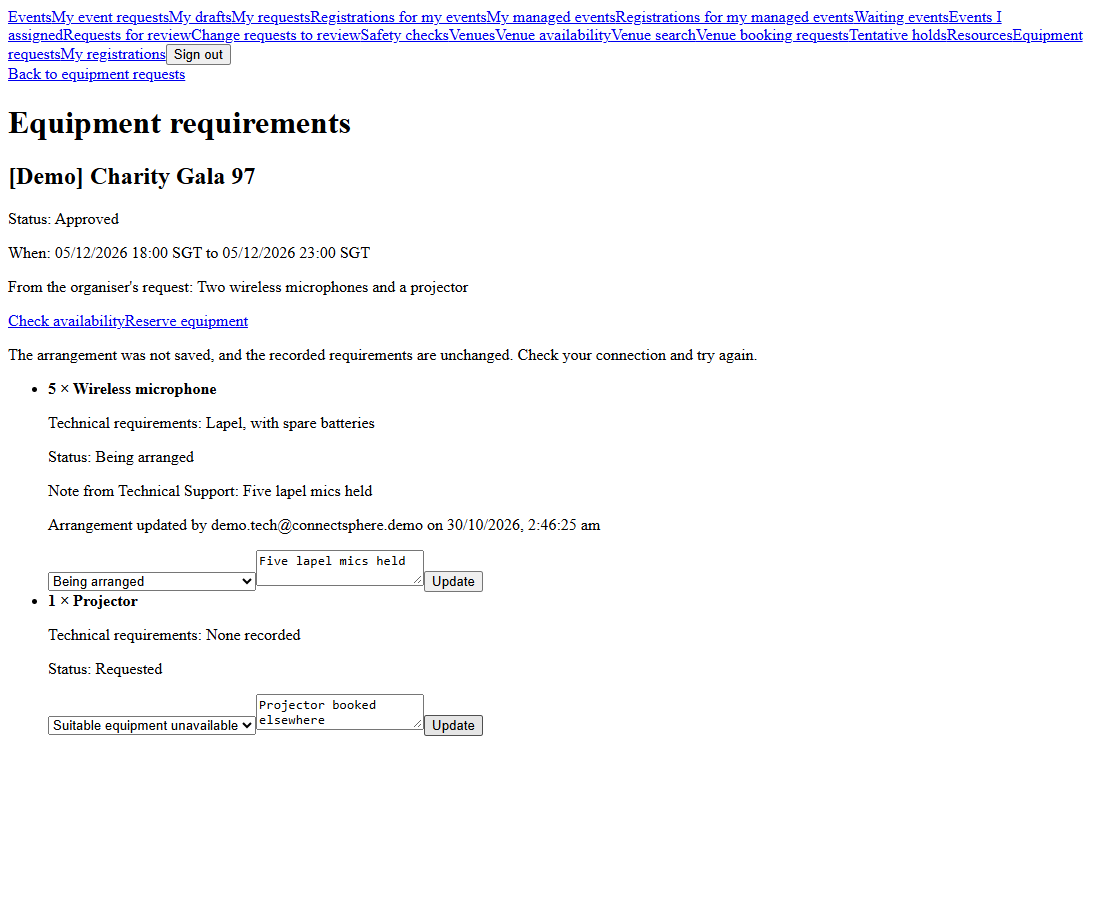
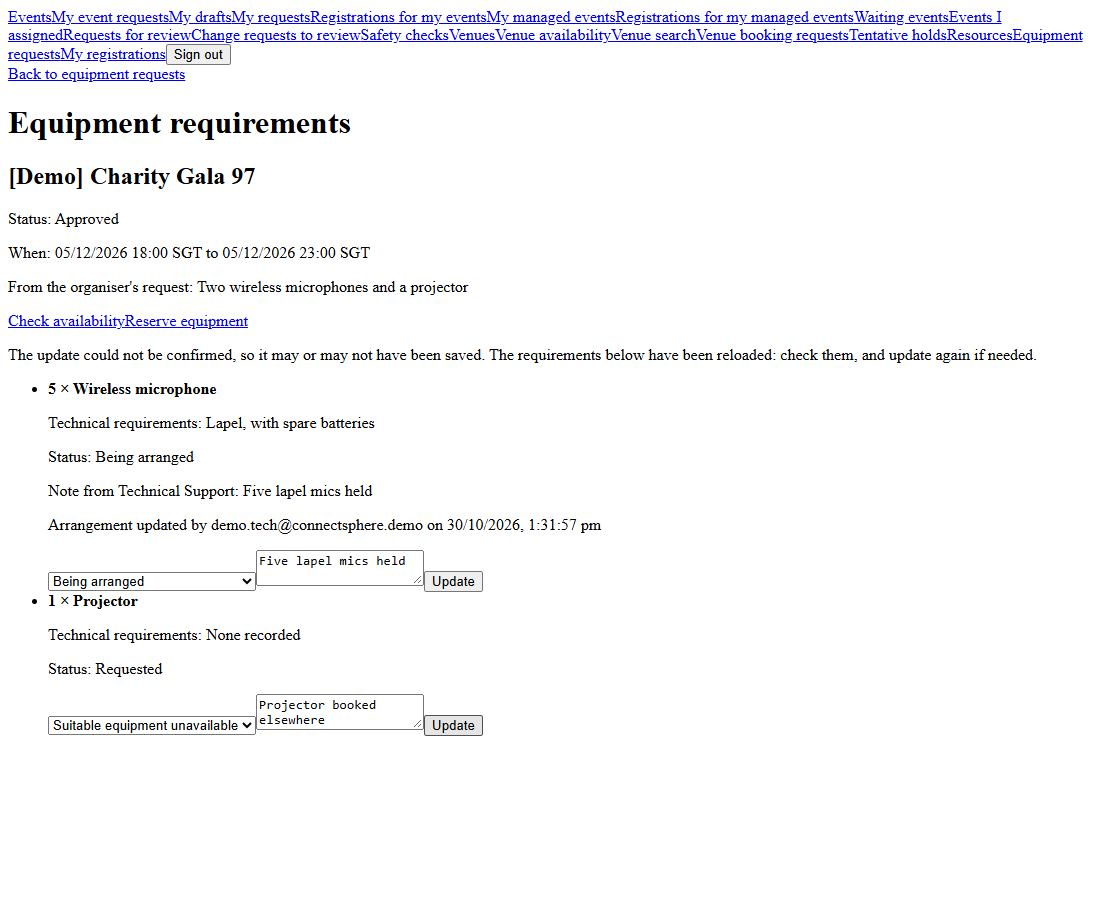
SCRUM-97: Update the DoD evidence for the review fix

Changed region(s): [[0.0309, 0.3733, 0.9273, 0.4044], [0.4945, 0.56, 0.5564, 0.5911]]

diff --git a/docs/evidence/SCRUM-97/scripts/mutations.py b/docs/evidence/SCRUM-97/scripts/mutations.py
@@ -98,7 +98,8 @@ MUTATIONS = [
      PAGE, "const body = { status, note, last_saved_at: requirement.last_saved_at };",
      "const body = { status, note };"),
     ("F5", "frontend", "A refusal for changed details doesn't show the new details", "AC1",
-     PAGE, "      if (error.response?.data?.reload) load();\n", ""),
+     PAGE, "if (answered === null || error.response?.data?.reload) load();",
+     "if (answered === null) load();"),
     # ---------- Frontend: refusals and failures (AC2, AC3) ----------
     ("F6", "frontend", "The requirement looks updated before the server agrees", "AC2, AC3",
      PAGE, "    startChange();\n    try {\n      // With the details shown",
@@ -107,11 +108,21 @@ MUTATIONS = [
      "      ? { ...r, status, status_label: \"Being arranged\", arrangement_note: note } : r)) }));\n"
      "    try {\n      // With the details shown"),
     ("F7", "frontend", "A failed update shows no error", "AC2, AC3",
-     PAGE, "      setFailure(explain(error, ARRANGEMENT_NOT_SAVED));\n", ""),
+     PAGE, "      setFailure(answered ?? ARRANGEMENT_UNCONFIRMED);\n", ""),
     ("F8", "frontend", "The server's explanation is ignored", "AC2, AC3",
-     PAGE, "explain(error, ARRANGEMENT_NOT_SAVED)", "ARRANGEMENT_NOT_SAVED"),
-    ("F9", "frontend", "With no reply, the page doesn't say the requirements are unchanged", "AC3",
-     PAGE, '  "The arrangement was not saved, and the recorded requirements are unchanged. '
-           'Check your connection and try again.";',
-     '  "The arrangement status was not saved. Check your connection and try again.";'),
+     PAGE, "const answered = explain(error, null);", "const answered = null;"),
+    # ---------- Frontend: no reply, so the outcome is unknown (AC3, review of PR #69) ----------
+    ("F9", "frontend", "With no reply, the page says nothing changed (the reviewed bug)", "AC3",
+     PAGE, "setFailure(answered ?? ARRANGEMENT_UNCONFIRMED);",
+     'setFailure(answered ?? "The arrangement was not saved, and the recorded requirements '
+     'are unchanged. Check your connection and try again.");'),
+    ("F10", "frontend", "With no reply, the requirements are not reloaded", "AC3",
+     PAGE, "if (answered === null || error.response?.data?.reload) load();",
+     "if (error.response?.data?.reload) load();"),
+    ("F11", "frontend", "An error page from a proxy is shown as the API's answer", "AC3",
+     PAGE, "const answered = explain(error, null);",
+     "const answered = error.response ? explain(error, \"The update failed.\") : null;"),
+    ("F12", "frontend", "The unconfirmed update is no longer explained when the reload fails", "AC3",
+     PAGE, '        {failure && <p role="alert">{failure}</p>}\n        <p role="alert">{loadError.message}</p>',
+     '        <p role="alert">{loadError.message}</p>'),
 ]

diff --git a/docs/evidence/SCRUM-97-dod-evidence.md b/docs/evidence/SCRUM-97-dod-evidence.md
@@ -7,9 +7,9 @@
 | # | Definition of Done item | Result |
 |---|---|---|
 | 1 | Acceptance criteria satisfied | ✅ All 3 ACs met, each shown by automated tests and in the running app ([§1](#1-acceptance-criteria-satisfied)) |
-| 2 | All test cases pass | ✅ SCRUM-97 backend 13/13 and frontend 6/6; whole backend suite 1177 run, all pass (4 skipped, none of them SCRUM-97's); whole frontend suite 529/529; end-to-end 5/5 ([§2](#2-all-test-cases-pass)) |
-| 3 | Test cases are correct and the code does what it says | ✅ Written test-first (red, then green); 27/27 deliberate breakages caught; behaviour confirmed in a real browser ([§3](#3-test-cases-are-correct-and-the-code-does-what-it-says)) |
-| 4 | Evidence of checks documented | ✅ This document, 6 screenshots, the scripts that produced them and the raw results ([§4](#4-evidence-documented)) |
+| 2 | All test cases pass | ✅ SCRUM-97 backend 13/13 and frontend 8/8; whole backend suite 1177 run, all pass (4 skipped, none of them SCRUM-97's); whole frontend suite 531/531; end-to-end 6/6 ([§2](#2-all-test-cases-pass)) |
+| 3 | Test cases are correct and the code does what it says | ✅ Written test-first (red, then green); 30/30 deliberate breakages caught; behaviour confirmed in a real browser ([§3](#3-test-cases-are-correct-and-the-code-does-what-it-says)) |
+| 4 | Evidence of checks documented | ✅ This document, 7 screenshots, the scripts that produced them and the raw results ([§4](#4-evidence-documented)) |
 
 > **Supabase:** no schema change, so there is nothing to run in the SQL editor. Against Supabase on 30 Oct 2026, `python -m unittest tests.test_tech_updates_equipment tests.test_tech_views_equipment tests.test_equipment_requirements tests.test_app_factory` ran 62 tests, all passing, including the schema check (the `hold_warned_at` mismatch found in SCRUM-96 is gone now that SCRUM-86 has merged). The other results below come from a local PostgreSQL 17 built by `ci/build_test_database.py`, as CI's `unittest` job builds it, with the tests logged in as the restricted `connectsphere_test` role.
 
@@ -21,6 +21,7 @@ SCRUM-42 (AC4) already let Technical Support set each requirement's arrangement 
 - **An update that changes nothing keeps who and when** (AC1): it used to replace them, so pressing Update again made someone look responsible for an arrangement they hadn't touched. It now says "No changes were made to the arrangement for 2 × Wireless microphone."
 - **An update is for the details Technical Support saw** (AC1, AC2): the page sends the requirement's `last_saved_at`. If the coordinator changed the requirement since (which sends it back to Requested, SCRUM-42 A8), the update is refused with 409 and nothing changes, and the page reloads to show the new details. The row is locked (`SELECT … FOR UPDATE`) while it is checked and saved, as the coordinator's edit already locks it. Before, a note written for 2 microphones could be saved against 5.
 - **A failed save says the requirements are unchanged** (AC3): "The arrangement was not saved, and the recorded requirements are unchanged. Please try again." (was "The arrangement status was not saved. Please try again.").
+- **No reply means the outcome is unknown** (AC3, review of PR #69): only the API's own error reply confirms that nothing was saved. With a dropped connection, or a proxy's error page, the server may have committed the update before the reply was lost. The page now says "The update could not be confirmed, so it may or may not have been saved. The requirements below have been reloaded: check them, and update again if needed." and reloads, so it shows what is actually saved. Before, it said nothing had changed, which could be false.
 - **Drafts:** updating a draft's requirement is now "Event not found." (404), as viewing is since SCRUM-96. Before, Technical Support could update one (a draft can only have a requirement if it is inserted directly) and the reply included the draft's title and the organiser's note.
 
 Code: `update_equipment_arrangement` in `backend/app/events/routes.py` and `EquipmentRequirementsPage.jsx`. SCRUM-42's test-case document (A7) and test docstring note the change; its TC-42-35 page test now expects `last_saved_at` in the update.
@@ -31,7 +32,7 @@ Code: `update_equipment_arrangement` in `backend/app/events/routes.py` and `Equi
 |----|-----------|---------------|-----------------|-------------------------|
 | AC1 | I can update a requirement as arrangements are made, and the update is saved with who and when. | Technical Support set the status (Requested, Being arranged, Suitable equipment unavailable) and a note. The update is saved with who made it and when (UTC), replacing the last, and the page shows both. An update that changes nothing keeps the earlier who and when. An update for details the coordinator has since changed is refused, and the page shows the new details. The coordinator's details can't be changed this way. | TC-97-01 to 06, 14, 15, 19 · TC-42-21, 22, 35 | E2E-01, 02, 04 · [01](SCRUM-97/01-update-saved-with-who-and-when.png), [02](SCRUM-97/02-unchanged-update-keeps-who-and-when.png), [04](SCRUM-97/04-changed-details-refused.png) |
 | AC2 | Only Technical Support Staff can update. Anyone else is denied and nothing changes. | Everyone else, including the event's own coordinator, gets 403 "Only Technical Support Staff can update equipment arrangements." with no event or requirement details. The role is read from the database on every request. A refusal changes no requirement, the event or its notifications, and sends no email. A draft is "Event not found." for everyone. | TC-97-05 to 10, 16 · TC-42-23 | E2E-03 · [03](SCRUM-97/03-coordinator-sees-but-cannot-update.png) |
-| AC3 | If saving fails, the existing requirements are unchanged and an error is shown. | A failed read or save is 503 `retryable: true`, "The arrangement was not saved, and the recorded requirements are unchanged. Please try again.", never "not found", and every requirement stays as it was. The page shows that (or "…Check your connection and try again." with no reply), keeps the requirements as they were and what was chosen and typed, so Update tries again. | TC-97-11 to 13, 17, 18 · TC-42-28 | E2E-05 · [05](SCRUM-97/05-save-failed.png), [06](SCRUM-97/06-saved-on-trying-again.png) |
+| AC3 | If saving fails, the existing requirements are unchanged and an error is shown. | A failed read or save is 503 `retryable: true`, "The arrangement was not saved, and the recorded requirements are unchanged. Please try again.", never "not found", and every requirement stays as it was. The page shows that, keeps the requirements as they were and what was chosen and typed, so Update tries again. With no reply from the API the outcome is unknown, so the page says the update couldn't be confirmed and reloads the requirements to show what is saved, never claiming nothing changed. | TC-97-11 to 13, 17, 18, 20, 21 · TC-42-28 | E2E-05, 06 · [05](SCRUM-97/05-save-failed.png), [06](SCRUM-97/06-saved-on-trying-again.png), [07](SCRUM-97/07-reply-lost-after-saving.png) |
 
 **Working assumptions.** Each is tied to an open question in the test-case document; none has been agreed with the customer:
 
@@ -47,9 +48,9 @@ Code: `update_equipment_arrangement` in `backend/app/events/routes.py` and `Equi
 | Backend, SCRUM-97 | `python -m unittest tests.test_tech_updates_equipment` (from `backend/`) | **13/13 pass** (TC-97-01 to 13) |
 | Backend, the equipment stories | `python -m unittest tests.test_tech_updates_equipment tests.test_tech_views_equipment tests.test_equipment_requirements tests.test_equipment_availability tests.test_equipment_reservation` | **113/113 pass** |
 | Backend, whole suite | `python -m unittest discover` | **Ran 1177 tests: OK, 4 skipped** (on the green commit). The skips are SCRUM-36/37 tests waiting on customer answers and a SCRUM-91 test blocked by SCRUM-93. |
-| Frontend, SCRUM-97 | `npx vitest run src/pages/EquipmentRequirementsPage.test.jsx` (from `frontend/`) | **6/6 SCRUM-97 tests pass** (TC-97-14 to 19), plus SCRUM-42/43/44/96's 29 in the same file: 35/35 |
-| Frontend, whole suite | `npm test` | **529/529 pass** |
-| End-to-end in a real browser | [scripts/e2e_check.mjs](SCRUM-97/scripts/e2e_check.mjs) | **5/5 pass** (§3c), [raw result](SCRUM-97/e2e-results.txt) |
+| Frontend, SCRUM-97 | `npx vitest run src/pages/EquipmentRequirementsPage.test.jsx` (from `frontend/`) | **8/8 SCRUM-97 tests pass** (TC-97-14 to 21), plus SCRUM-42/43/44/96's 29 in the same file: 37/37 |
+| Frontend, whole suite | `npm test` | **531/531 pass** |
+| End-to-end in a real browser | [scripts/e2e_check.mjs](SCRUM-97/scripts/e2e_check.mjs) | **6/6 pass** (§3c), [raw result](SCRUM-97/e2e-results.txt) |
 
 ## 3. Test cases are correct and the code does what it says
 
@@ -62,12 +63,14 @@ Every AC has API tests and page tests (traceability matrix in the test-case docu
 
 Two checks were added to TC-97-05 with the implementation (`6c042d6`): the requirement is read with `SELECT … FOR UPDATE` before it is saved, and an update without `last_saved_at` (an older page) is still accepted. Without them the mutation check would have missed removing the lock or refusing older pages.
 
+**After review of PR #69.** The reviewer pointed out that a dropped connection can follow a save the server has already committed, so "nothing changed" could be false. TC-97-18 was rewritten and TC-97-20 and 21 were added, committed failing as `f2a83d2` (review, TDD, red): the page said the requirements were unchanged and didn't reload (18, 20), and treated a proxy's 504 page the same way (21). The fix made all three pass.
+
 ### b. The tests catch broken code (mutation check)
 
 Each mutation breaks one rule, runs the tests, and restores the file byte for byte ([mutations](SCRUM-97/scripts/mutations.py), run with SCRUM-77's runner). The backend side ran **only SCRUM-97's tests**, so every catch is theirs.
 
 - **Backend: 18/18 caught** ([results](SCRUM-97/mutation-results-backend.txt)): the update recorded as the coordinator's (B1) or at the wrong time (B2); the status (B3) or note (B4) not saved; an unchanged update replacing who and when (B5) or a note-only change ignored (B6); an update for changed details saved (B7), an older page refused (B8), no reload asked for (B9), no lock (B10); a draft updatable (B11); anyone (B12) or the coordinator (B13) allowed; a refusal naming the event (B14); the requirement looked up before the permission check (B15); a failed save not saying the requirements are unchanged (B16), not retryable (B17) or reported as "not found" (B18).
-- **Frontend: 9/9 caught** ([results](SCRUM-97/mutation-results-frontend.txt)): who and when not shown (F1), the time shown as raw UTC (F2), the wrong person named (F3), `last_saved_at` not sent (F4), no reload after a change (F5), the requirement shown as updated before the server agreed (F6), no error shown (F7), the server's message ignored (F8), the old no-reply message (F9).
+- **Frontend: 12/12 caught** ([results](SCRUM-97/mutation-results-frontend.txt), rerun after the review fix): who and when not shown (F1), the time shown as raw UTC (F2), the wrong person named (F3), `last_saved_at` not sent (F4), no reload after a change (F5), the requirement shown as updated before the server agreed (F6), no error shown (F7), the server's message ignored (F8), saying nothing changed when there was no reply, the reviewed bug (F9), not reloading when there was no reply (F10), a proxy's error page taken as the API's answer (F11), the unconfirmed message lost when the reload fails too (F12).
 
 ### c. The running app does what it says (end-to-end)
 
@@ -79,9 +82,10 @@ The real app (Vite → Flask → a local PostgreSQL `connectsphere_e2e_97` built
 | E2E-02 | demo.tech2 marks them unavailable, and is shown as the updater; demo.tech then presses Update without changing anything: "No changes were made…", demo.tech2 is still shown, and the stored requirement is identical (AC1) | [02](SCRUM-97/02-unchanged-update-keeps-who-and-when.png) |
 | E2E-03 | The coordinator sees who and when but has no arrangement controls; the coordinator's and organiser's updates through the API get 403 with only the message, and the requirements are unchanged (AC2) | [03](SCRUM-97/03-coordinator-sees-but-cannot-update.png) |
 | E2E-04 | With demo.tech's page open, the coordinator changes the microphones to 5; demo.tech's update is refused with the message naming 5 × Wireless microphone, the page shows 5 × Wireless microphone at Requested without the typed note, and updating it again works (AC1) | [04](SCRUM-97/04-changed-details-refused.png) |
-| E2E-05 | With the update cut off, the page says the arrangement was not saved and the requirements are unchanged, the projector is still Requested (also in the API), and the choice and note stay; once the connection is back, Update saves it (AC3) | [05](SCRUM-97/05-save-failed.png), [06](SCRUM-97/06-saved-on-trying-again.png) |
+| E2E-05 | With the update cut off before it reaches the server, the page says it couldn't be confirmed and reloads; the projector is still Requested (also in the API), and the choice and note stay; once the connection is back, Update saves it (AC3) | [05](SCRUM-97/05-save-failed.png), [06](SCRUM-97/06-saved-on-trying-again.png) |
+| E2E-06 | The update reaches the server and is saved, but the reply is cut off: the page says it couldn't be confirmed, and the reloaded projector shows Being arranged with the note and demo.tech as the updater, matching the API; the page never says "not saved" or "unchanged" (AC3, review of PR #69) | [07](SCRUM-97/07-reply-lost-after-saving.png) |
 
-**Runs.** The first run passed 4/5: E2E-04's script looked for the text "5 × Wireless microphone", which also appears inside the refusal message, so the locator matched two elements. The script now matches the requirement's name exactly. A second run on a freshly seeded event passed 5/5; the screenshots are from it.
+**Runs.** The first run passed 4/5: E2E-04's script looked for the text "5 × Wireless microphone", which also appears inside the refusal message, so the locator matched two elements. The script now matches the requirement's name exactly. A second run on a freshly seeded event passed 5/5. After the review fix, E2E-05 was updated for the new message and E2E-06 added; that run, on a freshly seeded event, passed 6/6, and the screenshots are from it.
 
 ### d. Findings for the team (not part of SCRUM-97)
 
@@ -90,7 +94,7 @@ The real app (Vite → Flask → a local PostgreSQL `connectsphere_e2e_97` built
 
 ### e. Limitations
 
-- **The server's 503 was not produced in the browser.** E2E-05 cuts the request off (no reply); the server's own 503 and its message are covered by TC-97-11 to 13 and 17.
+- **The server's 503 was not produced in the browser.** E2E-05 and 06 cut the connection off (no reply); the server's own 503 and its message are covered by TC-97-11 to 13 and 17.
 - **The lock is checked by the SQL it sends, not by two real concurrent requests.** The tests run in one transaction, so TC-97-05 checks that the requirement is read with `SELECT … FOR UPDATE` before it is saved.
 - **Against Supabase only the equipment stories' and the schema tests were run** (see the note at the top); the whole suite was run against the local database, as CI does.
 - The demo accounts and event used in the browser check exist only in the local `connectsphere_e2e_97` database.
@@ -98,5 +102,5 @@ The real app (Vite → Flask → a local PostgreSQL `connectsphere_e2e_97` built
 ## 4. Evidence documented
 
 - This document, and the test-case document with its traceability matrix and open questions.
-- [SCRUM-97/](SCRUM-97/): screenshots `01`–`06`; `scripts/` (seed script, browser check, mutations); `mutation-results-backend.txt`, `mutation-results-frontend.txt`, `e2e-results.txt`.
-- Commits: `41ed2f6` (TDD, red), `6c042d6` (TDD, green).
+- [SCRUM-97/](SCRUM-97/): screenshots `01`–`07`; `scripts/` (seed script, browser check, mutations); `mutation-results-backend.txt`, `mutation-results-frontend.txt`, `e2e-results.txt`.
+- Commits: `41ed2f6` (TDD, red), `6c042d6` (TDD, green); after review of PR #69: `f2a83d2` (red) and `c217c50` (green).
